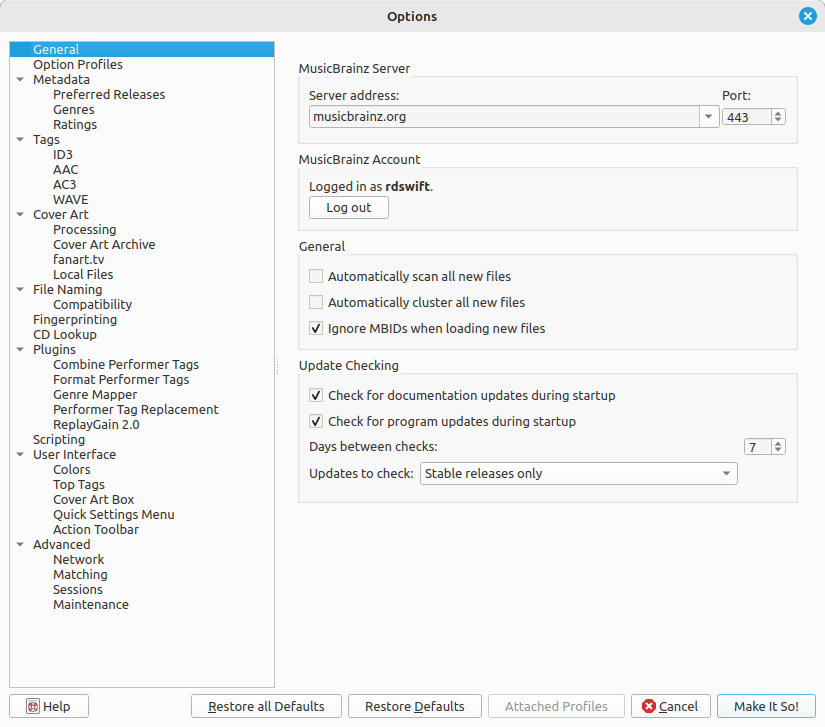
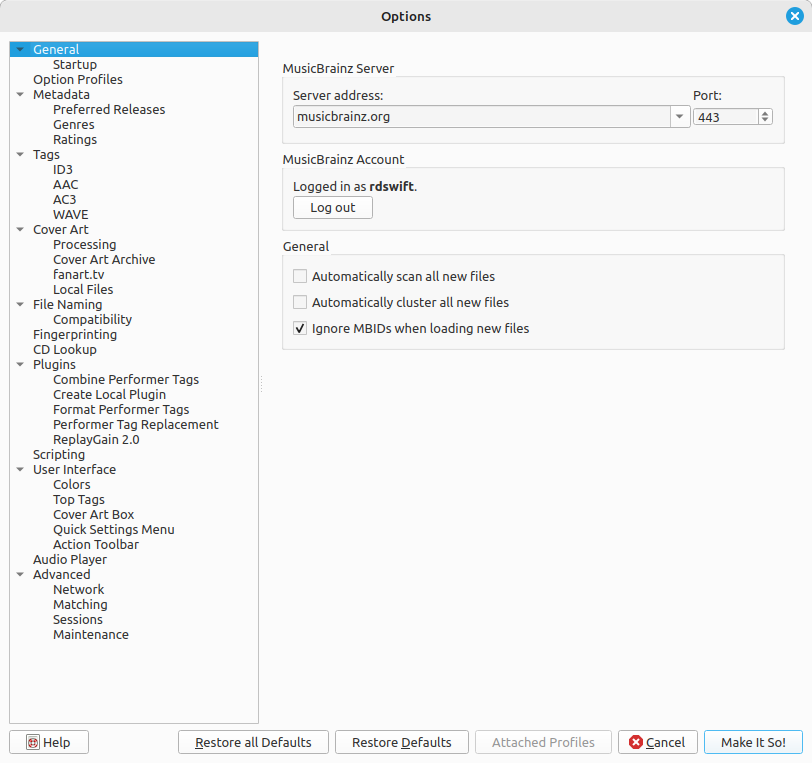
Revise General options page.  Add new Startup options page.

diff --git a/config/options_startup.rst b/config/options_startup.rst
@@ -1,0 +1,64 @@
+.. MusicBrainz Picard Documentation Project
+
+:index:`Startup Options <configuration; startup options>`
+==========================================================
+
+.. only:: not latex
+
+   .. image:: images/options-startup.png
+      :align: center
+
+.. only:: latex
+
+   .. image:: images/options-startup.png
+      :width: 70%
+      :align: center
+
+**Check for documentation updates during start-up**
+
+   This option determines whether or not Picard will automatically check for :index:`available versions and languages on ReadTheDocs <pair: configuration; documentation checking>` during startup in order to provide the best match when displaying a help page. If this is disabled, the latest version of the documentation will be displayed in English in your web browser.
+
+   If the option is disabled, a popup message will be displayed during startup asking if you want to enable the documentation checking. The message also includes an option to disable the popup from displaying in the future. The popup can also be enabled or disabled through a setting in the :doc:`options_interface` section.
+
+**Check for plugin updates during start-up**
+
+   This option determines whether or not Picard will automatically check for :index:`plugin updates <pair: configuration; plugin update checking>` during startup. If this is enabled and an update to an installed plugin is available, a notification icon will be displayed in the status bar. Clicking the icon will open the Plugins options page where you can review the available plugin updates and select which ones to install.
+
+**Check for program updates during start-up**
+
+   This option determines whether or not Picard will automatically check for :index:`program updates <pair: configuration; program update checking>` during startup. In any case, you can have Picard check for program updates at any time using :menuselection:`"Help --> Check for update"`.
+
+**Days between checks**
+
+   This option allows you to limit the automatic program update checking by selecting the interval, in days, between checks. Set this to 1 if you want to check daily, 7 for weekly checks, and so on. Note that this only applies if the "Check for program updates during start-up" option is enabled.
+
+**Updates to check**
+
+   This option allows you to select which levels of program update to check. Your options are:
+
+   * Stable releases only
+   * Stable and Beta releases
+   * Stable, Beta and Dev releases
+
+   For example, if you subscribe to "Stable releases only" you will not be notified if a new Beta or Dev release is issued.
+
+.. note::
+
+   The program update checking related settings and :menuselection:`"Help --> Check for update..."` command may not be available when Picard is distributed as a package. In that case, the user should check with the maintainer of the package to determine when an update is available.
+
+**Default Log Level**
+
+   This option allows you to select the log level set when Picard is started. The log level determines the amount of information that is recorded in the log. The available log levels are:
+
+   * ``Error`` - only error messages are logged
+   * ``Warning`` - warning messages and error messages are logged
+   * ``Info`` - informational messages, warning messages and error messages are logged
+   * ``Debug`` - detailed debug information, informational messages, warning messages and error messages are logged
+
+   In general, it is recommended to set the log level to ``Info`` for normal use to avoid excessive logging, and only use ``Debug`` when troubleshooting specific issues to ensure that all log entries are captured. Note that setting the log level to ``Debug`` may result in a large amount of log output, which can be useful for troubleshooting but may also make it harder to find relevant information in the log. If you want to see less detailed information, you can set it to ``Warning`` or ``Error``.
+
+   Please see :doc:`../appendices/log_viewer` for more information about viewing or saving the log using the log viewer, and how to change the log level during a session.
+
+   .. note::
+
+      Changing the setting for the default will also change the log level for the current session, so if you change the level to ``Warning``, then only **Warning** and **Error** level events will be logged from that point forward. The log level will be reset to the default value selected in this option automatically each time Picard is started, unless the ``--debug`` command line option is specified or the ``PICARD_DEBUG`` environment variable is set.

diff --git a/appendices/log_viewer.rst b/appendices/log_viewer.rst
@@ -3,7 +3,7 @@
 Appendix D: :index:`Log Viewer <pair: log viewer; usage>`
 =======================================================================
 
-Picard maintains a log of events that can be useful for troubleshooting and understanding the behavior of Picard. The log viewer allows you to view and filter these log entries, and to export the log to a file for sharing with others or attach to bug reports. This is also where you set the log level and select which debug options to include in the log during the current session. Note that Picard will automatically reset the log level to the default of ``Info`` when started, unless the ``--debug`` command line option is specified or the ``PICARD_DEBUG`` environment variable is set.
+Picard maintains a log of events that can be useful for troubleshooting and understanding the behavior of Picard. The log viewer allows you to view and filter these log entries, and to export the log to a file for sharing with others or attach to bug reports. This is also where you set the log level and select which debug options to include in the log during the current session. Note that Picard will automatically reset the log level to the default value selected in the :doc:`../config/options_startup` automatically each time Picard is started, unless the ``--debug`` command line option is specified or the ``PICARD_DEBUG`` environment variable is set.
 
 .. only:: not latex
 
@@ -33,9 +33,9 @@ The log level can be overridden to ``Debug``, and debug options can be set for a
 Log level
 +++++++++++
 
-The level of logging that is enabled is selected from a dropdown control. The options are ``Error``, ``Warning``, ``Info``, and ``Debug``. Entries will be logged at the selected level or above. For example, selecting ``Warning`` will log **Warning** and **Error** entries, but not **Debug** or **Info** entries. In general, it is recommended to set the log level to ``Info`` for normal use to avoid excessive logging, and only use ``Debug`` when troubleshooting specific issues to ensure that all log entries are captured.
+The level of logging that is enabled for the current session is selected from a dropdown control. The options are ``Error``, ``Warning``, ``Info``, and ``Debug``. Entries will be logged at the selected level or above. For example, selecting ``Warning`` will log **Warning** and **Error** entries, but not **Debug** or **Info** entries. In general, it is recommended to set the log level to ``Info`` for normal use to avoid excessive logging, and only use ``Debug`` when troubleshooting specific issues to ensure that all log entries are captured.
 
-Note that the selected log level is applied immediately, so if you change the level to ``Warning``, then only **Warning** and **Error** level events will be logged from that point forward. However, log entries that were captured at a lower level prior to changing the log level will not be removed from the log, and will still be visible in the log viewer until the log is cleared. The log level will be reset to the default of ``Info`` automatically each time Picard is started.
+Note that the selected log level is applied immediately, so if you change the level to ``Warning``, then only **Warning** and **Error** level events will be logged from that point forward. However, log entries that were captured at a lower level prior to changing the log level will not be removed from the log, and will still be visible in the log viewer until the log is cleared. The log level will be reset to the default value selected in the :doc:`../config/options_startup` automatically each time Picard is started.
 
 The log level selector is also used to filter the log entries that are displayed in the log viewer. If you change the level to ``Warning``, then only **Warning** and **Error** level entries will be displayed in the log viewer, even if more detailed entries are being logged at a lower level.
 
@@ -78,6 +78,8 @@ Log level
 +++++++++++
 
 The log level dropdown control is used to select the level to filter the log entries. Selecting a log level will show only entries at that level and above. For example, selecting ``Warning`` will show **Warning** and **Error** entries, but not **Debug** or **Info** entries.
+
+Note that changing this setting also changes the log level for the current session, so if you change the level to ``Warning``, then only **Warning** and **Error** level events will be logged from that point forward.
 
 Filter text
 +++++++++++++++

diff --git a/config/options_general.rst b/config/options_general.rst
@@ -59,34 +59,13 @@
 
    If you enable this option Picard will not use MusicBrainz identifiers (MBIDs) stored in the files to automatically load the corresponding MusicBrainz release and match the loaded file to the correct track. Leaving this option disabled is useful when re-processing files that have been previously tagged with incorrect information.
 
-**Check for documentation updates during start-up**
+.. only:: html and not epub
 
-   This option determines whether or not Picard will automatically check for :index:`available versions and languages on ReadTheDocs <pair: configuration; documentation checking>` during startup in order to provide the best match when displaying a help page. If this is disabled, the latest version of the documentation will be displayed in English in your web browser.
+   .. seealso::
 
-   If the option is disabled, a popup message will be displayed during startup asking if you want to enable the documentation checking. The message also includes an option to disable the popup from displaying in the future. The popup can also be enabled or disabled through a setting in the :doc:`options_interface` section.
+      Please see :doc:`options_startup` for options related to checking for updates and log level at startup.
 
-**Check for plugin updates during start-up**
+.. toctree::
+   :hidden:
 
-   This option determines whether or not Picard will automatically check for :index:`plugin updates <pair: configuration; plugin update checking>` during startup. If this is enabled and an update to an installed plugin is available, a notification icon will be displayed in the status bar. Clicking the icon will open the Plugins options page where you can review the available plugin updates and select which ones to install.
-
-**Check for program updates during start-up**
-
-   This option determines whether or not Picard will automatically check for :index:`program updates <pair: configuration; program update checking>` during startup. In any case, you can have Picard check for program updates at any time using :menuselection:`"Help --> Check for update"`.
-
-**Days between checks**
-
-   This option allows you to limit the automatic program update checking by selecting the interval, in days, between checks. Set this to 1 if you want to check daily, 7 for weekly checks, and so on. Note that this only applies if the "Check for program updates during start-up" option is enabled.
-
-**Updates to check**
-
-   This option allows you to select which levels of program update to check. Your options are:
-
-   * Stable releases only
-   * Stable and Beta releases
-   * Stable, Beta and Dev releases
-
-   For example, if you subscribe to "Stable releases only" you will not be notified if a new Beta or Dev release is issued.
-
-.. note::
-
-   The program update checking related settings and :menuselection:`"Help --> Check for update..."` command may not be available when Picard is distributed as a package. In that case, the user should check with the maintainer of the package to determine when an update is available.
+   options_startup
